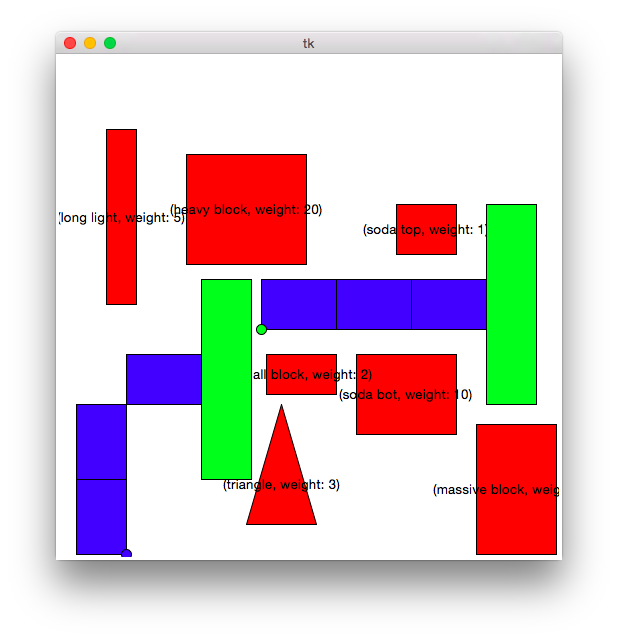
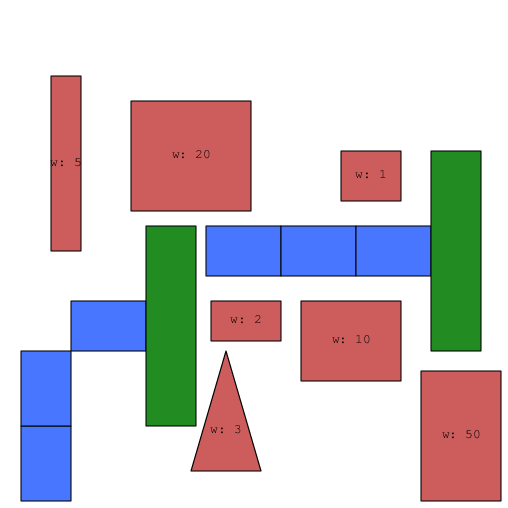
updated layout and algo performance in ch4 to look more even. updated some bib stuff like case. new images for ch4 of worlds. change headers of tables to shorthand

diff --git a/chap4.tex b/chap4.tex
@@ -3,7 +3,7 @@ In this chapter we review the performance of the algorithms from Chapter \ref{ch
 
 The results shown in this chapter are averages over 500 trials.
 
-Note: For a table of the numerical results for each world, including the standard deviation of our experimental results, consult the appendix (e.g. Table \ref{tab:feasible_world}). In this section we show a pictorial representation of the numerical data. Specifically, let $r$ be the success rate for an algorithm, $t_s$ be the average time for a successful search, $t_f$ be the average time to failure, and $S$ be the average cover on success. Additionally, let $S_{max}$ be the highest cover possible in a world. We plot the time $t = r * t_s + (1-r) * t_f$ against the cover $c = r * |S| + (1-r) * S_{max}$.
+Note: For a table of the numerical results for each world, including the standard deviation of our experimental results, consult the appendix (e.g. Table \ref{tab:feasible_world}). In this section we show a pictorial representation of the numerical data. Specifically, let $r$ be the average success rate for an algorithm, $t_s$ be the average time for a successful search, $t_f$ be the average time to failure, and $S$ be the average cover on success. Additionally, let $S_{max}$ be the largest cover possible in a world. We plot the time $t = r * t_s + (1-r) * t_f$ against the cover $c = r * |S| + (1-r) * |S_{max}|$.
 
 \section{Worlds with Feasible Paths}\label{results:feasible}
 The following section is dedicated to worlds that are most common. These are worlds for which there exists a path from a start configuration to a goal configuration without any collisions. We will look at two such examples: one that is mostly free space and one that has many obstacles.
@@ -13,11 +13,11 @@ The first world of this type can be seen in Figure \ref{fig:feasible_world_layou
 
 \begin{figure}[!h]
     \subfloat[Layout\label{fig:feasible_world_layout}]{%
-      \includegraphics[width=0.45\textwidth, height = 6cm]{feasible_world}
+      \fbox{\includegraphics[width=0.4\textwidth]{feasible_world}}
     }
     \hfill
     \subfloat[Algorithm Performance\label{fig:feasible_world_graph}]{%
-      \includegraphics[width=0.45\textwidth, height = 6cm]{feasible_world_graph}
+      \includegraphics[width=0.55\textwidth]{feasible_world_graph}
     }
     \caption{Common Feasible World}
     \label{fig:feasible_world}
@@ -30,11 +30,11 @@ In Figure \ref{fig:many_obstacles_feasible_world} we see a possible situation wh
 
 \begin{figure}[!h]
     \subfloat[Layout\label{fig:many_obstacles_feasible_world_layout}]{%
-      \includegraphics[width=0.45\textwidth, height = 6cm]{many_obstacles_feasible_world}
+      \fbox{\includegraphics[width=0.4\textwidth]{many_obstacles_feasible_world}}
     }
     \hfill
     \subfloat[Algorithm Performance\label{fig:many_obstacles_feasible_world_graph}]{%
-      \includegraphics[width=0.45\textwidth, height = 6cm]{many_obstacles_world_graph}
+      \includegraphics[width=0.55\textwidth]{many_obstacles_world_graph}
     }
     \caption{Cluttered Feasible World}
     \label{fig:many_obstacles_feasible_world}
@@ -80,11 +80,11 @@ We start our analysis on unfeasible worlds with a simple analog to the minimal o
 
 \begin{figure}[!h]
     \subfloat[Layout\label{fig:two_soda_world_layout}]{%
-      \includegraphics[width=0.45\textwidth, height = 6cm]{two_soda_world}
+      \fbox{\includegraphics[width=0.4\textwidth]{two_soda_world}}
     }
     \hfill
     \subfloat[Algorithm Performance\label{fig:two_soda_world_graph}]{%
-      \includegraphics[width=0.45\textwidth, height = 6cm]{two_soda_world_graph}
+      \includegraphics[width=0.55\textwidth]{two_soda_world_graph}
     }
     \caption{Two Box Unfeasible World}
     \label{fig:two_soda_world}
@@ -126,11 +126,11 @@ Here we examine the performance of the algorithms on worlds where the best cover
 
 \begin{figure}[!h]
     \subfloat[Layout\label{fig:cluttered_world_layout}]{%
-      \includegraphics[width=0.45\textwidth, height = 6cm]{cluttered_world}
+      \fbox{\includegraphics[width=0.4\textwidth]{cluttered_world}}
     }
     \hfill
     \subfloat[Algorithm Performance\label{fig:cluttered_world_graph}]{%
-      \includegraphics[width=0.45\textwidth, height = 6cm]{cluttered_world_graph}
+      \includegraphics[width=0.55\textwidth]{cluttered_world_graph}
     }
     \caption{Cluttered World With Greedy Path of Minimum Cover}
     \label{fig:cluttered_world}
@@ -172,11 +172,11 @@ In this last test we use a world that has the same layout as the previous world 
 
 \begin{figure}[!h]
     \subfloat[Layout\label{fig:top_light_cluttered_world_layout}]{%
-      \includegraphics[width=0.45\textwidth, height = 6cm]{top_light_cluttered_world}
+      \fbox{\includegraphics[width=0.4\textwidth]{top_light_cluttered_world}}
     }
     \hfill
     \subfloat[Algorithm Performance\label{fig:top_light_cluttered_world_graph}]{%
-      \includegraphics[width=0.45\textwidth, height = 6cm]{top_light_cluttered_world_graph}
+      \includegraphics[width=0.55\textwidth]{top_light_cluttered_world_graph}
     }
     \caption{Cluttered World With Non-Greedy Path of Minimum Cover}
     \label{fig:top_light_cluttered_world}
@@ -216,7 +216,7 @@ This section is dedicated to the impact of the memory factor on the IOR-RRT. Spe
 \centering
 \begin{tabular}{@{}llll@{}}
 \toprule
-Memory Factor & Two Block World(\%)  & Cluttered Greedy Path  & Cluttered Non-Greedy Path \\ 
+Memory Factor & Two Block World  & Cluttered Greedy Path  & Cluttered Non-Greedy Path \\ 
 \midrule
 0.0 & 1.80 & 16.21 & 25.10 \\
 0.1 & 1.74 & 16.09 & 25.16 \\
@@ -235,32 +235,56 @@ For all memory factors on all the worlds in Table \ref{tab:memory_factor_no_impa
 
 However, under certain conditions the memory factor can have an impact on the IOR-RRT's ability to find paths. Consider the example world in Figure \ref{fig:memory_factor_world} and the results of using the greedy removal IOR-RRT in Table \ref{tab:memory_factor_impact}.
 
-
-\begin{figure}[h!]
-    \centering
-    \includegraphics[width=0.5\textwidth]{memory_factor_world}
+\begin{figure}[!h]
+    \subfloat[Layout\label{fig:memory_factor_world_layout}]{%
+      \fbox{\includegraphics[width=0.4\textwidth]{memory_factor_world}}
+    }
+    \hfill
+    \subfloat[Memory Factor Impact. We use $r$, $t_s$, and $|S|$ as specified before. $L$ is the length of the found path.\label{tab:memory_factor_impact}]{
+        \begin{tabular}[b]{@{}lllll@{}}
+        \toprule
+        Memory Factor & $r$ & $t_s$ & $L$ & $|S|$ \\ 
+        \midrule
+        0.0 & 73.6 & 1.16 & 2223.69 & 2.35 \\
+        0.1 & 69.6 & 0.98 & 2201.90 & 2.39 \\
+        0.3 & 61.4 & 0.94 & 2188.36 & 2.27 \\
+        0.5 & 51.2 & 0.80 & 2153.86 & 2.21 \\
+        0.7 & 43.4 & 0.69 & 2176.99 & 2.18 \\
+        0.9 & 28.4 & 0.56 & 2216.65 & 2.17 \\ 
+        1.0 & 24.4 & 0.40 & 2190.09 & 2.18 \\
+        \bottomrule
+        \end{tabular}
+    }
     \caption{World with Close Clustered Obstacles}
     \label{fig:memory_factor_world}
 \end{figure}
 
-\begin{table}[h!]
-\centering
-\begin{tabular}{@{}lllll@{}}
-\toprule
-Memory Factor & Success Rate(\%)  & Success Time & Path Length & Cover \\ 
-\midrule
-0.0 & 73.6 & 1.16 & 2223.69 & 2.35 \\
-0.1 & 69.6 & 0.98 & 2201.90 & 2.39 \\
-0.3 & 61.4 & 0.94 & 2188.36 & 2.27 \\
-0.5 & 51.2 & 0.80 & 2153.86 & 2.21 \\
-0.7 & 43.4 & 0.69 & 2176.99 & 2.18 \\
-0.9 & 28.4 & 0.56 & 2216.65 & 2.17 \\ 
-1.0 & 24.4 & 0.40 & 2190.09 & 2.18 \\
-\bottomrule
-\end{tabular}
-\caption{World with Memory Factor Impact}
-\label{tab:memory_factor_impact}
-\end{table}
+
+% \begin{figure}[h!]
+%     \centering
+%     \fbox{\includegraphics[width=0.5\textwidth]{memory_factor_world}}
+%     \caption{World with Close Clustered Obstacles}
+%     \label{fig:memory_factor_world}
+% \end{figure}
+
+% \begin{table}[h!]
+% \centering
+% \begin{tabular}{@{}lllll@{}}
+% \toprule
+% Memory Factor & $r$  & $t_s$ & $L$ & $|S|$ \\ 
+% \midrule
+% 0.0 & 73.6 & 1.16 & 2223.69 & 2.35 \\
+% 0.1 & 69.6 & 0.98 & 2201.90 & 2.39 \\
+% 0.3 & 61.4 & 0.94 & 2188.36 & 2.27 \\
+% 0.5 & 51.2 & 0.80 & 2153.86 & 2.21 \\
+% 0.7 & 43.4 & 0.69 & 2176.99 & 2.18 \\
+% 0.9 & 28.4 & 0.56 & 2216.65 & 2.17 \\ 
+% 1.0 & 24.4 & 0.40 & 2190.09 & 2.18 \\
+% \bottomrule
+% \end{tabular}
+% \caption{World with Memory Factor Impact. The notation $r$, $t_s$, and $|S|$ are as specified before. $L$ is the length of the found path.}
+% \label{tab:memory_factor_impact}
+% \end{table}
 
 We see that low memory factors are correlated with success in finding paths in some situations. Low memory factors lead to higher rates of path discovery because it biases the planner to removing obstacles that are now exposed to collisions in the opened space. With a low removal frequency, collisions are accumulated for a longer period of time. Then, after removing an obstacle and scaling the collision counts by the memory factor, with a high memory factor there may still be a substantial collision count for the other obstacles that were in collision. Consequently the next removal cycle may select one of those original obstacles for removal. Holding the number of removals constant, this can be a wasted obstacle removal. 
 

diff --git a/appendix.tex b/appendix.tex
@@ -1,13 +1,13 @@
 \chapter{Appendix}
 
-In the following tables, $T_f$ denotes the failure time and $T_s$ is its counterpart success time. We let $L$ refer to the length of a path. As before $|S|$ refers to the size of a cover. 
+In the following tables, $t_f$ denotes the failure time and $t_s$ is its counterpart success time. We let $L$ refer to the length of a path. As before $|S|$ refers to the size of a cover. 
 
 \begin{table}[h!]
 \centering
 \resizebox{\textwidth}{!}{
 \begin{tabular}{@{}lllllllll@{}}
 \toprule
-Algorithm & Success(\%) & $T_f$ (s) & $T_s$ (s) & $L$ & $|S|$ & $\sigma_{T_f}$ & $\sigma_{T_s}$ & $\sigma_{|S|}$ \\
+Algorithm & $r$ & $t_f$ (s) & $t_s$ (s) & $L$ & $|S|$ & $\sigma_{t_f}$ & $\sigma_{t_s}$ & $\sigma_{|S|}$ \\
 \midrule
 MCR & 100.0 & 0.00 & 26.98 & 5491.39 & 2.62 & --- & 17.72 & 3.90 \\
 RRT & 19.6 & 2.90 & 1.74 & 5485.26 & 0.00 & 0.21 & 0.73 & 0.00 \\
@@ -30,7 +30,7 @@ Search Informed IOR-RRT & 100.0 & --- & 1.13 & 5545.40 & 0.00 & --- & 0.90 & 0.0
 \resizebox{\textwidth}{!}{
 \begin{tabular}{@{}lllllllll@{}}
 \toprule
-Algorithm & Success(\%) & $T_f$ (s) & $T_s$ (s) & $L$ & $|S|$ & $\sigma_{T_f}$ & $\sigma_{T_s}$ & $\sigma_{|S|}$ \\
+Algorithm & $r$ & $t_f$ (s) & $t_s$ (s) & $L$ & $|S|$ & $\sigma_{t_f}$ & $\sigma_{t_s}$ & $\sigma_{|S|}$ \\
 \midrule
 MCR & 100.0 & --- & 20.79 & 8187.41 & 2.16 & --- & 7.49 & 0.93 \\
 RRT & 1.4 & 2.45 & 2.22 & 7764.50 & 0.00 & 0.35 & 0.70 & 0.00 \\
@@ -51,7 +51,7 @@ Search Informed IOR-RRT & 100.0 & --- & 9.14 & 9028.56 & 1.70 & --- & 4.63 & 3.6
 \centering
 \begin{tabular}{@{}lllllllll@{}}
 \toprule
-Algorithm & Success(\%) & $T_f$ (s) & $T_s$ (s) & $L$ & $|S|$ & $\sigma_{T_f}$ & $\sigma_{T_s}$ & $\sigma_{|S|}$ \\
+Algorithm & $r$ & $t_f$ (s) & $t_s$ (s) & $L$ & $|S|$ & $\sigma_{t_f}$ & $\sigma_{t_s}$ & $\sigma_{|S|}$ \\
 \midrule
 MCR & 100.0 & 0.00 & 10.82 & 6190.77 & 1.06 & --- & 7.60 & 0.77 \\
 RRT & 0.0 & 0.74 & --- & --- & --- & 0.09 & --- & --- \\
@@ -71,7 +71,7 @@ Search Informed IOR-RRT & 100.0 & --- & 15.91 & 5403.04 & 1.60 & --- & 1.35 & 2.
 \centering
 \begin{tabular}{@{}lllllllll@{}}
 \toprule
-Algorithm & Success(\%) & $T_f$ (s) & $T_s$ (s) & $L$ & $|S|$ & $\sigma_{T_f}$ & $\sigma_{T_s}$ & $\sigma_{|S|}$ \\
+Algorithm & $r$ & $t_f$ (s) & $t_s$ (s) & $L$ & $|S|$ & $\sigma_{t_f}$ & $\sigma_{t_s}$ & $\sigma_{|S|}$ \\
 \midrule
 MCR & 100.0 & 0.00 & 116.29 & 4753.26 & 19.85 & --- & 71.50 & 7.64 \\
 RRT & 0.0 & 0.74 & --- & --- & --- & 0.02 & --- & --- \\
@@ -91,7 +91,7 @@ Search Informed IOR-RRT & 100.0 & --- & 24.30 & 4688.62 & 16.61 & --- & 0.75 & 3
 \centering
 \begin{tabular}{@{}lllllllll@{}}
 \toprule
-Algorithm & Success(\%) & $T_f$ (s) & $T_s$ (s) & $L$ & $|S|$ & $\sigma_{T_f}$ & $\sigma_{T_s}$ & $\sigma_{|S|}$ \\
+Algorithm & $r$ & $t_f$ (s) & $t_s$ (s) & $L$ & $|S|$ & $\sigma_{t_f}$ & $\sigma_{t_s}$ & $\sigma_{|S|}$ \\
 \midrule
 MCR & 100.0 & 0.00 & 153.48 & 6838.41 & 23.05 & --- & 56.93 & 6.76\\
 RRT & 0.0 & 0.76 & --- & --- & --- & 0.03 & --- & --- \\
